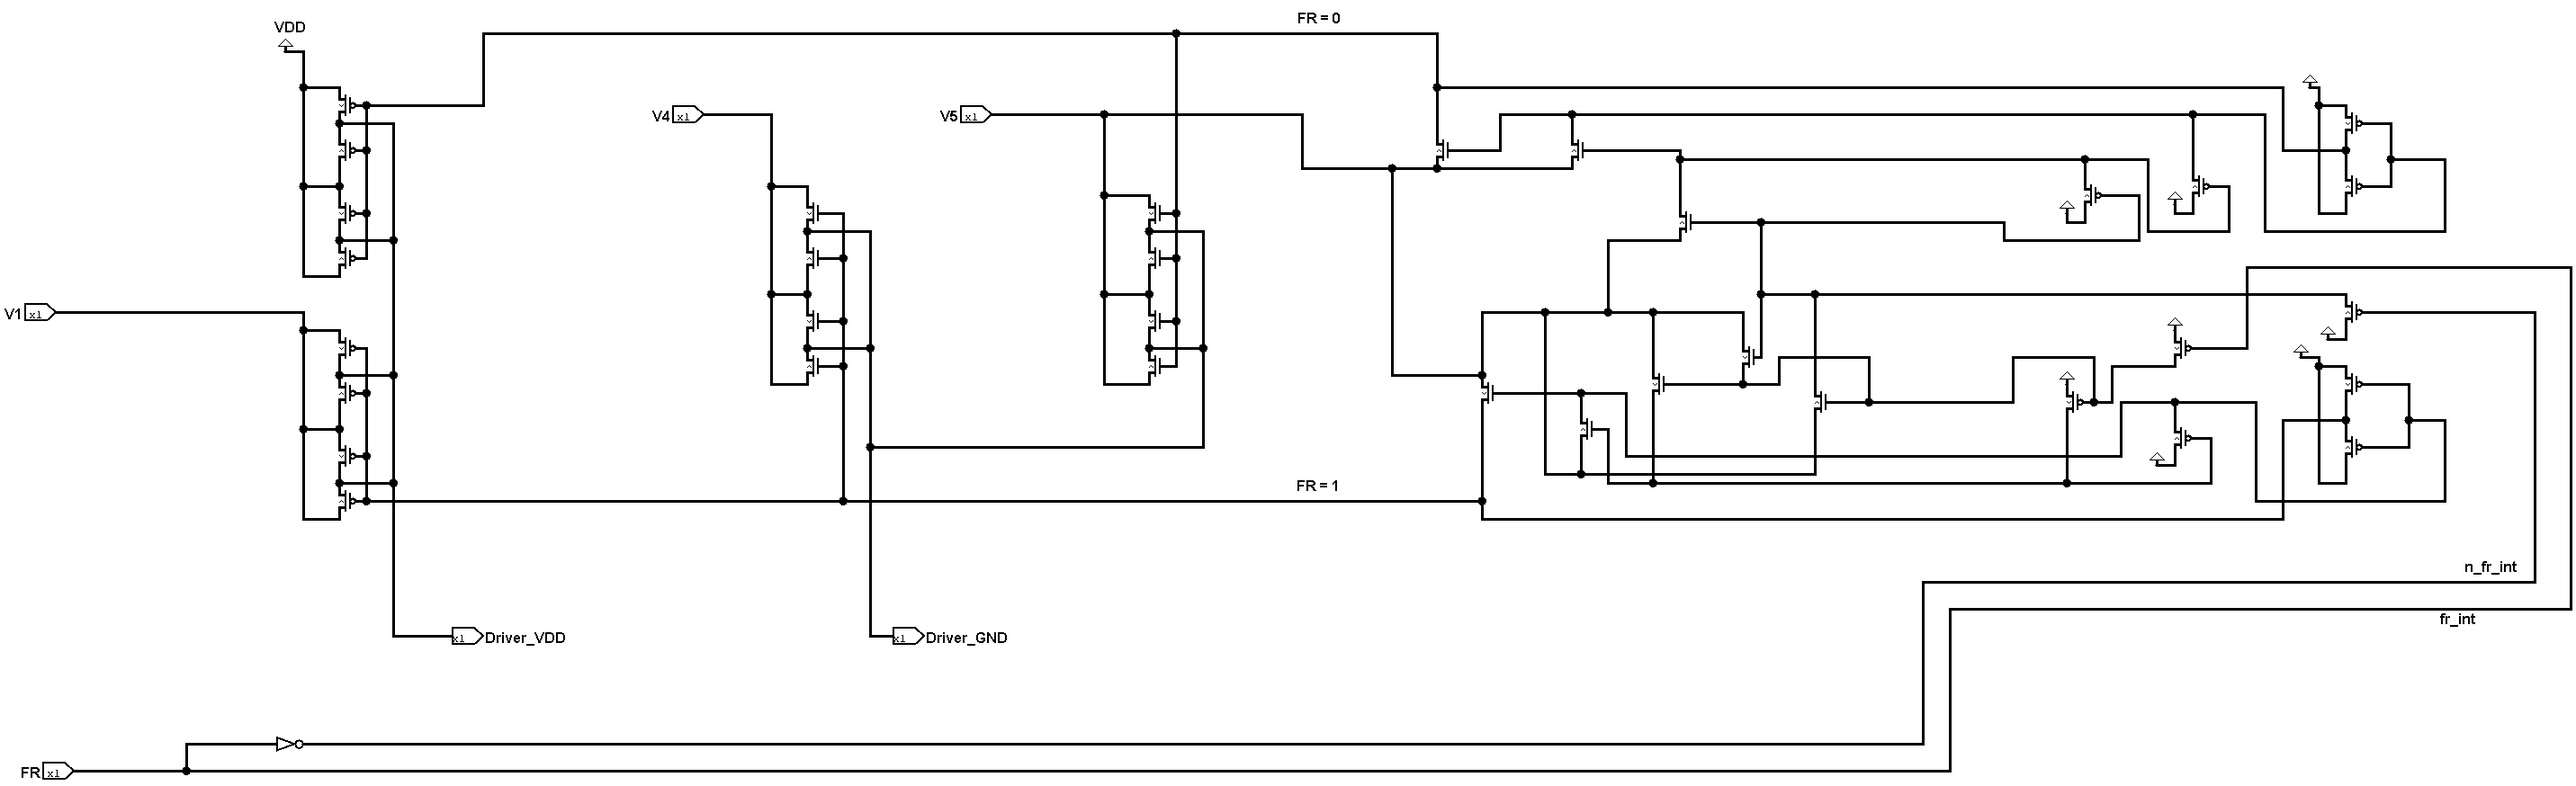
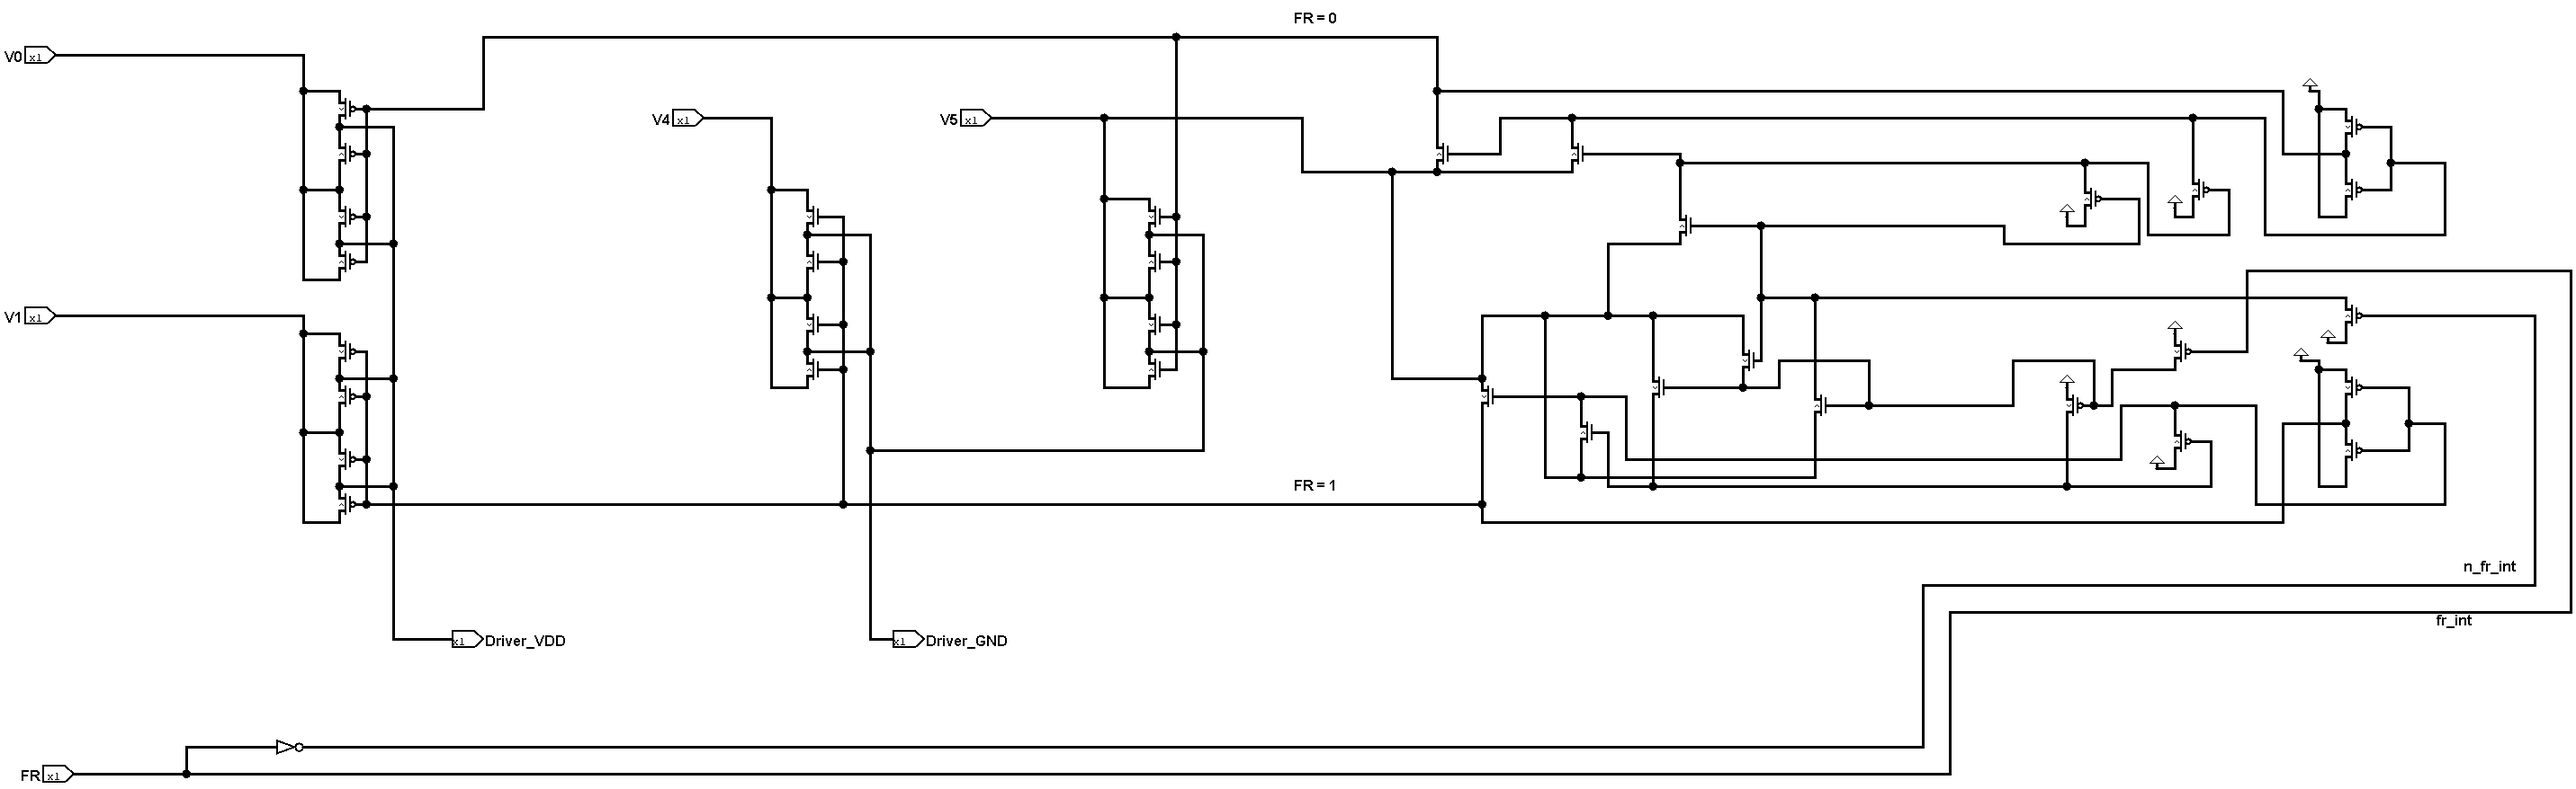
located V0

diff --git a/ydriver.md b/ydriver.md
@@ -14,8 +14,9 @@ Tech process:
 
 |Port|Direction|Description|
 |---|---|---|
-|VDD|input|Digital Power. Also used as analog Power for output drivers when FR=1 |
+|VDD|input|Digital Power |
 |GND|input|Digital Ground |
+|V0|input|Bias voltage V0. Used as analog Power for output drivers when FR=1; Hardwired to VDD in DMG. |
 |V1|input|Bias voltage V1. Used as analog Power for output drivers when FR=0 |
 |V4|input|Bias voltage V4. Used as analog Ground for output drivers when FR=1 |
 |V5|input|Bias voltage V5. Used as analog Ground for output drivers when FR=0 |
